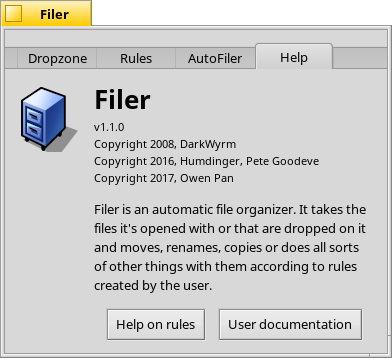
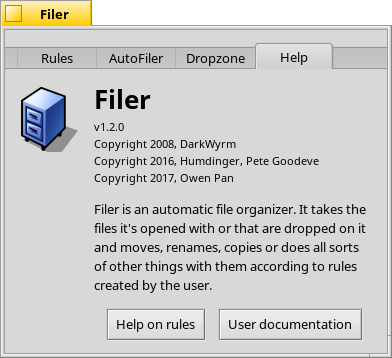
Update documentation
* shortened file names
* updated screenshots and doc due to re-ordered tabs

diff --git a/documentation/User Documentation.html b/documentation/User Documentation.html
@@ -129,7 +129,7 @@ ul {
 <img src="./images/filer_icon_64.png" alt="Filer icon" /></a>
 <p><span style="font-size: 1.5em; font-weight:bold">Filer's User Documentation</span></p>
 <hr />
-<p id="index"><a href="#usage">Usage</a> — <a href="#dropzone">Dropzone</a> — <a href="#rules">Rules</a> — <a href="#autofiler">AutoFiler</a> — <a href="#help">Help</a> — <a href="#history">History</a></p>
+<p id="index"><a href="#usage">Usage</a> — <a href="#rules">Rules</a> — <a href="#autofiler">AutoFiler</a> — <a href="#dropzone">Dropzone</a> — <a href="#help">Help</a> — <a href="#history">History</a></p>
 </div>
 <hr />
 <p><br /></p>
@@ -154,32 +154,20 @@ ul {
 </div>
 <p>You can either <span class="button">Skip</span> the move/copy of the file or <span class="button">Replace</span> the existing file. In case there are similar conflicts for the rest of the currently running Filer job, you can decide to <span class="button">Do this for all files</span> by ticking the checkbox before making your decision.<br />
 Note, the state of the checkbox is only valid for the current Filer job. If <i>Filer</i> (or <i>AutoFiler</i>) is triggered at some later time and a conflict with an existing file occurs again, you are once more presented with this conflict window.</p>
-<p>Filer's interface is divided into four tabs: Dropzone, Rules, AutoFiler and Help.</p>
-
-<h2>
-<a href="#"><img src="images/up.png" style="border:none;float:right" alt="index" /></a>
-<a id="dropzone" name="dropzone">Dropzone</a></h2>
-<div align="center">
-<img src="./images/filer_dropzone.png" alt="Filer's dropzone" />
-</div>
-<p>As described above under 4.), you can drag&amp;drop files onto the Dropzone to have them processed according to your set of rules. If you'd like to embed this Dropzone into the Desktop, click the button <span class="button">Replicate dropzone…</span>.<br />
-It opens a window to resize the dropzone to fit your needs. When that's done, drag the little Replicant handle in the bottom-right corner onto your Desktop. Make sure to have <span class="menu">Show replicants</span> in the Deskbar menu activated. Once on the Desktop, right-click the Replicant's handle for a menu to remove it again.<br />
-A right-click into the shaded part of the replicated Dropzone offers a menu as a shortcut to <span class="menu">Open Filer…</span>.</p>
-<div class="box-info">
-If you drag files from another partition onto a replicated Dropzone, you'll end up with copies of those files on your Desktop. This is because notifications of dropped files are not only processed by the Replicant, but also by the Tracker sitting below.</div>
+<p>Filer's interface is divided into four tabs: Rules, AutoFiler, Dropzone and Help.</p>
 
 <h2>
 <a href="#"><img src="images/up.png" style="border:none;float:right" alt="index" /></a>
 <a id="rules" name="rules">Rules</a></h2>
 <div align="center">
-<img src="./images/filer_ruleslist.png" alt="Filer's rules" />
+<img src="./images/rules.png" alt="Filer's rules" />
 </div>
-<p>The second tab shows the list of organization rules. Every dropped file is being tested against — and if its type etc. matches, processed  by — each rule, top to bottom.</p>
+<p>The first tab shows the list of organization rules. Every dropped file is being tested against — and if its type etc. matches, processed  by — each rule, top to bottom.</p>
 <p>You can opt to <span class="menu">Apply only the first matching rule</span> if you prefer that. Filer will then stop trying to match rules to a file after it found one. (A rule can override that by adding a <span class="menu">Continue</span> in its "Do" block. See the <a href="Rule-Making%20Reference.html">Rule-Making Reference</a> for more info.)</p>
 <p>You arrange the order of rules with the <span class="button">Move up/down</span> buttons. You can <span class="button">Edit…</span> and <span class="button">Disable</span> rules and add/remove a rule with the <span class="button">+</span> and <span class="button">-</span> buttons.</p>
 <p>Here's the window that opens to edit a rule, which is similar to the one for adding a rule:</p>
 <div align="center">
-<img src="./images/filer_edit_rule.png" alt="Editing a rule" /></div>
+<img src="./images/edit_rule.png" alt="Editing a rule" /></div>
 <p>A rule needs three things: A <span class="menu">Description</span>, the condition <span class="menu">When</span> it is applied, and what action to <span class="menu">Do</span>.</p>
 <p>Click on the pop-up menus in the "When" and "Do" boxes to explore the various options to construct the right condition and what action will be taken. You can add several conditions which will <i>all</i> have to be met to trigger the action. If you add several actions in the "Do" box, be aware that they are executed in order, from top to bottom.<br />
 You add or remove a condition or action with its <span class="button">+</span> or <span class="button">-</span> buttons.</p>
@@ -191,11 +179,22 @@ You add or remove a condition or action with its <span class="button">+</span> o
 <a id="autofiler" name="autofiler">AutoFiler</a></h2>
 <p>When <i>AutoFiler</i> is running, it monitors user-defined folders and executes the actions defined in the <i>Filer</i> rules automatically.</p>
 <div align="center">
-<img src="./images/autofiler_settings.png" alt="AutoFiler settings" />
+<img src="./images/autofiler.png" alt="AutoFiler settings" />
 </div>
-
 <p>The <i>AutoFiler</i> itself is a background application. You can activate the checkbox at the top to automatically <span class="menu">Run AutoFiler on system startup</span>. The button beside it lets you start/stop it manually.</p>
 <p>With the <span class="button">+</span> and <span class="button">-</span> buttons, you can add and remove the folders that <i>AutoFiler</i> will monitor for incoming files. One or more folders are quickly added via drag&amp;drop.</p>
+
+<h2>
+<a href="#"><img src="images/up.png" style="border:none;float:right" alt="index" /></a>
+<a id="dropzone" name="dropzone">Dropzone</a></h2>
+<div align="center">
+<img src="./images/dropzone.png" alt="Filer's dropzone" />
+</div>
+<p>You can drag&amp;drop files onto the Dropzone to have them processed according to your set of rules. If you'd like to embed this Dropzone into the Desktop, click the button <span class="button">Replicate dropzone…</span>.<br />
+It opens a window to resize the dropzone to fit your needs. When that's done, drag the little Replicant handle in the bottom-right corner onto your Desktop. Make sure to have <span class="menu">Show replicants</span> in the Deskbar menu activated. Once on the Desktop, right-click the Replicant's handle for a menu to remove it again.<br />
+A right-click into the shaded part of the replicated Dropzone offers a menu as a shortcut to <span class="menu">Open Filer…</span>.</p>
+<div class="box-info">
+If you drag files from another partition onto a replicated Dropzone, you'll end up with copies of those files on your Desktop. This is because notifications of dropped files are not only processed by the Replicant, but also by the Tracker sitting below.</div>
 
 <h2>
 <a href="#"><img src="images/up.png" style="border:none;float:right" alt="index" /></a>
@@ -204,7 +203,7 @@ You add or remove a condition or action with its <span class="button">+</span> o
 <img src="./images/help.png" alt="The help tab" />
 </div>
 <p>The last tab shows some information about <i>Filer</i> and offers two quick links to <span class="button">Help on rules</span> and the <span class="button">User documentation</span>.</p>
-<p>Please report bugs or create feature requests at <a href="https://github.com/HaikuArchives/Filer/issues">Filer's issue tracker at GitHub</a>.</p>
+<p>Please report bugs, create feature requests or offers for additional translations at <a href="https://github.com/HaikuArchives/Filer/issues">Filer's issue tracker at GitHub</a>.</p>
 
 <h2>
 <a href="#"><img src="images/up.png" style="border:none;float:right" alt="index" /></a>
